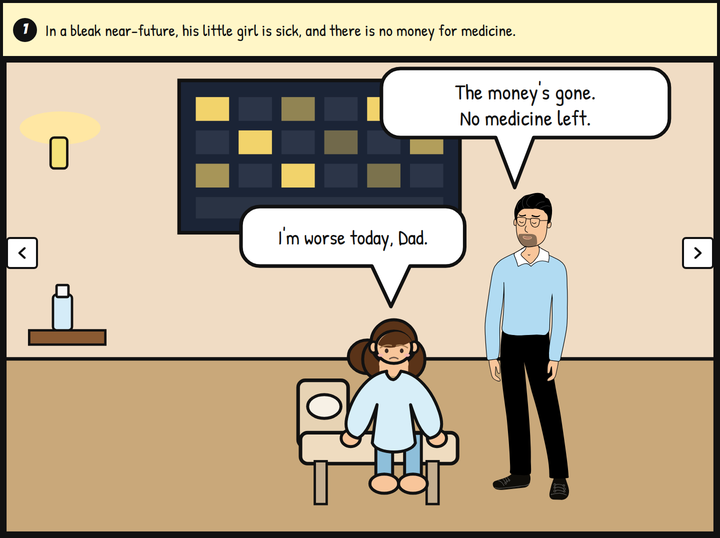
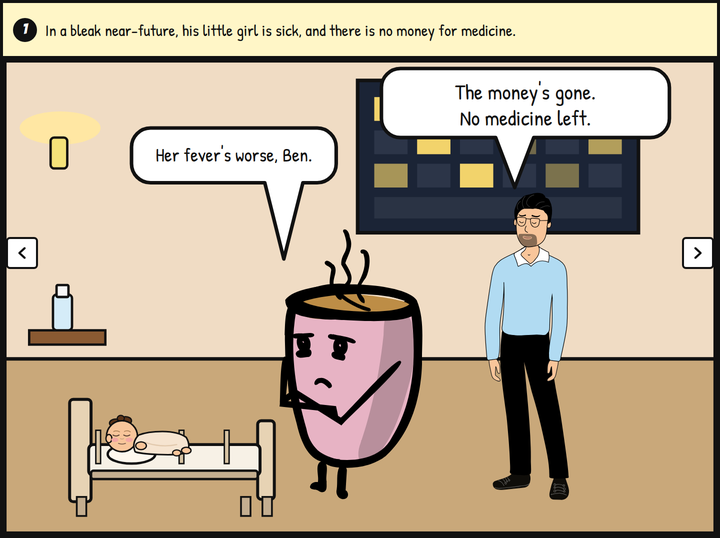
Make Cathy a feverish baby in the Running Man opening.
Scene 1 replaces the seated school-age girl with an original infant in a crib, about a third of Ethan's height, and gives the line to her mother instead.

Changed region(s): [[0.0917, 0.119, 0.9167, 0.9814]]

diff --git a/_includes/comicbook-the-running-man.html b/_includes/comicbook-the-running-man.html
@@ -13,28 +13,28 @@
         <div class="numbertext">1 / 6</div>
         <figure class="rm-panel" id="rm-panel-1" data-scene="1">
 <figcaption class="rm-cap"><span class="rm-num" aria-hidden="true">1</span><span>In a bleak near-future, his little girl is sick, and there is no money for medicine.</span></figcaption>
-<svg class="rm-art" viewBox="0 0 600 400" role="img" aria-labelledby="rm-t1" preserveAspectRatio="xMidYMid meet"><title id="rm-t1">A broke father stands with his sick daughter in a poor room above a dark city</title>
+<svg class="rm-art" viewBox="0 0 600 400" role="img" aria-labelledby="rm-t1" preserveAspectRatio="xMidYMid meet"><title id="rm-t1">A broke father and mother stand by their feverish baby in a poor room</title>
 <rect width="600" height="400" fill="#f0dcc4"/>
-<rect x="148" y="18" width="236" height="128" fill="#1b2436" stroke="#111" stroke-width="3"/>
-<rect x="162" y="32" width="28" height="20" fill="#f2d36b"/>
-<rect x="198" y="32" width="28" height="20" fill="#2c3548"/>
-<rect x="234" y="32" width="28" height="20" fill="#f2d36b" opacity=".55"/>
-<rect x="270" y="32" width="28" height="20" fill="#2c3548"/>
-<rect x="306" y="32" width="28" height="20" fill="#f2d36b"/>
-<rect x="342" y="32" width="28" height="20" fill="#2c3548"/>
-<rect x="162" y="60" width="28" height="20" fill="#2c3548"/>
-<rect x="198" y="60" width="28" height="20" fill="#f2d36b"/>
-<rect x="234" y="60" width="28" height="20" fill="#2c3548"/>
-<rect x="270" y="60" width="28" height="20" fill="#f2d36b" opacity=".4"/>
-<rect x="306" y="60" width="28" height="20" fill="#2c3548"/>
-<rect x="342" y="60" width="28" height="20" fill="#f2d36b" opacity=".7"/>
-<rect x="162" y="88" width="28" height="20" fill="#f2d36b" opacity=".65"/>
-<rect x="198" y="88" width="28" height="20" fill="#2c3548"/>
-<rect x="234" y="88" width="28" height="20" fill="#f2d36b"/>
-<rect x="270" y="88" width="28" height="20" fill="#2c3548"/>
-<rect x="306" y="88" width="28" height="20" fill="#f2d36b" opacity=".45"/>
-<rect x="342" y="88" width="28" height="20" fill="#2c3548"/>
-<rect x="162" y="116" width="208" height="18" fill="#2a3344"/>
+<rect x="298" y="18" width="236" height="128" fill="#1b2436" stroke="#111" stroke-width="3"/>
+<rect x="312" y="32" width="28" height="20" fill="#f2d36b"/>
+<rect x="348" y="32" width="28" height="20" fill="#2c3548"/>
+<rect x="384" y="32" width="28" height="20" fill="#f2d36b" opacity=".55"/>
+<rect x="420" y="32" width="28" height="20" fill="#2c3548"/>
+<rect x="456" y="32" width="28" height="20" fill="#f2d36b"/>
+<rect x="492" y="32" width="28" height="20" fill="#2c3548"/>
+<rect x="312" y="60" width="28" height="20" fill="#2c3548"/>
+<rect x="348" y="60" width="28" height="20" fill="#f2d36b"/>
+<rect x="384" y="60" width="28" height="20" fill="#2c3548"/>
+<rect x="420" y="60" width="28" height="20" fill="#f2d36b" opacity=".4"/>
+<rect x="456" y="60" width="28" height="20" fill="#2c3548"/>
+<rect x="492" y="60" width="28" height="20" fill="#f2d36b" opacity=".7"/>
+<rect x="312" y="88" width="28" height="20" fill="#f2d36b" opacity=".65"/>
+<rect x="348" y="88" width="28" height="20" fill="#2c3548"/>
+<rect x="384" y="88" width="28" height="20" fill="#f2d36b"/>
+<rect x="420" y="88" width="28" height="20" fill="#2c3548"/>
+<rect x="456" y="88" width="28" height="20" fill="#f2d36b" opacity=".45"/>
+<rect x="492" y="88" width="28" height="20" fill="#2c3548"/>
+<rect x="312" y="116" width="208" height="18" fill="#2a3344"/>
 <rect y="252" width="600" height="148" fill="#c9a87a"/>
 <line x1="0" y1="252" x2="600" y2="252" stroke="#111" stroke-width="3"/>
 <ellipse cx="48" cy="58" rx="34" ry="14" fill="#ffe7a3"/>
@@ -42,15 +42,22 @@
 <rect x="22" y="228" width="64" height="12" fill="#8a5a32" stroke="#111" stroke-width="2"/>
 <rect x="42" y="198" width="16" height="30" rx="3" fill="#d5ecf8" stroke="#111" stroke-width="2"/>
 <rect x="45" y="190" width="10" height="10" rx="1" fill="#f7f7f7" stroke="#111" stroke-width="2"/>
-<rect x="248" y="270" width="42" height="56" rx="6" fill="#e7d3b4" stroke="#111" stroke-width="3"/>
-<ellipse cx="270" cy="292" rx="14" ry="10" fill="#f7f1e6" stroke="#111" stroke-width="2.5"/>
-<rect x="250" y="314" width="132" height="26" rx="6" fill="#efdcc0" stroke="#111" stroke-width="3"/>
-<rect x="262" y="338" width="10" height="36" fill="#c4ae90" stroke="#111" stroke-width="2"/>
-<rect x="356" y="338" width="10" height="36" fill="#c4ae90" stroke="#111" stroke-width="2"/>
-<image href="{{ '/assets/comics/the-running-man/girl.svg' | relative_url }}" x="266" y="206" width="151" height="169"/>
+<rect x="56" y="286" width="18" height="86" rx="3" fill="#e7d3b4" stroke="#111" stroke-width="2.5"/>
+<rect x="214" y="304" width="14" height="66" rx="3" fill="#e7d3b4" stroke="#111" stroke-width="2.5"/>
+<rect x="72" y="324" width="144" height="26" rx="4" fill="#f7f1e6" stroke="#111" stroke-width="2.5"/>
+<rect x="78" y="312" width="4" height="28" fill="#d7c4a4" stroke="#111" stroke-width="1.2"/>
+<rect x="148" y="312" width="4" height="28" fill="#d7c4a4" stroke="#111" stroke-width="1.2"/>
+<rect x="186" y="312" width="4" height="28" fill="#d7c4a4" stroke="#111" stroke-width="1.2"/>
+<ellipse cx="108" cy="332" rx="20" ry="8" fill="#fff8ee" stroke="#111" stroke-width="2"/>
+<image href="{{ '/assets/comics/the-running-man/baby.svg' | relative_url }}" x="80" y="296" width="80" height="46"/>
+<rect x="74" y="346" width="140" height="7" rx="2" fill="#c4ae90" stroke="#111" stroke-width="2"/>
+<rect x="62" y="368" width="8" height="16" fill="#c4ae90" stroke="#111" stroke-width="1.5"/>
+<rect x="200" y="368" width="8" height="16" fill="#c4ae90" stroke="#111" stroke-width="1.5"/>
+<rect x="218" y="368" width="8" height="16" fill="#c4ae90" stroke="#111" stroke-width="1.5"/>
+<image href="{{ '/assets/comics/the-running-man/sheila.svg' | relative_url }}" x="71" y="0" width="437" height="524" transform="translate(579,0) scale(-1,1)"/>
 <image href="{{ '/assets/comics/the-running-man/ben-sad-side.svg' | relative_url }}" x="276" y="92" width="249" height="298" transform="translate(801,0) scale(-1,1)"/>
-<path d="M 216 124 H 372 A 16 16 0 0 1 388 140 V 158 A 16 16 0 0 1 372 174 H 342 L 326 208 L 310 174 H 216 A 16 16 0 0 1 200 158 V 140 A 16 16 0 0 1 216 124 Z" fill="#fff" stroke="#111" stroke-width="3" stroke-linejoin="round"/>
-<text x="294" y="156" font-family="'Patrick Hand', 'Comic Neue', 'Comic Sans MS', cursive" font-size="17" fill="#111" text-anchor="middle">I'm worse today, Dad.</text>
+<path d="M 124 58 H 264 A 16 16 0 0 1 280 74 V 88 A 16 16 0 0 1 264 104 H 252 L 236 168 L 220 104 H 124 A 16 16 0 0 1 108 88 V 74 A 16 16 0 0 1 124 58 Z" fill="#fff" stroke="#111" stroke-width="3" stroke-linejoin="round"/>
+<text x="194" y="86" font-family="'Patrick Hand', 'Comic Neue', 'Comic Sans MS', cursive" font-size="16" fill="#111" text-anchor="middle">Her fever's worse, Ben.</text>
 <path d="M 334 8 H 544 A 16 16 0 0 1 560 24 V 50 A 16 16 0 0 1 544 66 H 446 L 430 108 L 414 66 H 334 A 16 16 0 0 1 318 50 V 24 A 16 16 0 0 1 334 8 Z" fill="#fff" stroke="#111" stroke-width="3" stroke-linejoin="round"/>
 <text x="439" y="34" font-family="'Patrick Hand', 'Comic Neue', 'Comic Sans MS', cursive" font-size="18" fill="#111" text-anchor="middle"><tspan x="439" dy="0">The money's gone.</tspan><tspan x="439" dy="22">No medicine left.</tspan></text>
 <rect x="1.5" y="1.5" width="597" height="397" fill="none" stroke="#111" stroke-width="3"/></svg>
@@ -224,5 +231,5 @@
         <button type="button" class="dot" aria-label="Show scene 6"></button>
     </div>
   </div>
-  <p class="rm-credit">Fan-made, unaffiliated, and spoiler-free. Dialogue is original. Not endorsed by Stephen King or his publishers. Characters rendered with <a href="https://gramener.com/comicgen/">Gramener Comicgen</a> (MIT). Character art: Ethan by Devarani B; Dey, Priya, and Ringo by Ramya Mylavarapu (CC0). The daughter is original fan art. Fonts: Patrick Hand &amp; Bangers (SIL OFL).</p>
+  <p class="rm-credit">Fan-made, unaffiliated, and spoiler-free. Dialogue is original. Not endorsed by Stephen King or his publishers. Characters rendered with <a href="https://gramener.com/comicgen/">Gramener Comicgen</a> (MIT). Character art: Ethan by Devarani B; Bean, Dey, Priya, and Ringo by Ramya Mylavarapu (CC0). Sheila is Bean. The baby is original fan art. Fonts: Patrick Hand &amp; Bangers (SIL OFL).</p>
 </section>

diff --git a/_includes/comic-the-running-man.html b/_includes/comic-the-running-man.html
@@ -6,7 +6,7 @@
     <div class="comic-caption-top">The Running Man: the premise in 6 panels</div>
     <img src="{{ '/assets/comics/the-running-man/panel-1.png' | relative_url }}"
          width="300" height="200" style="width:100%;height:auto;object-fit:cover"
-         alt="A father and his sick daughter in a poor apartment">
+         alt="A father and mother with their feverish baby in a poor apartment">
     <button type="button" class="btn" data-open-comic="the-running-man"
             title="Comic book" aria-label="Open The Running Man comic strip">
       <i class="fa-regular fa-eye" aria-hidden="true"></i>

diff --git a/README.md b/README.md
@@ -59,9 +59,9 @@ The Firestarter strip is fan-made, non-commercial, and based on the public publi
 
 The Cujo strip is fan-made, non-commercial, and based on the public publisher premise of the novel (Viking Press, September 8, 1981): in a hot Castle Rock summer, Donna Trenton and her four-year-old son Tad are already strained while Vic is away on business. Cujo, a gentle St. Bernard, is bitten by a bat and changes. Donna and Tad drive their failing Pinto to a remote farm garage, and it breaks down there, leaving them stuck in the car as the dog appears. The strip does not follow the plot past that premise. It is not affiliated with or endorsed by Stephen King or Viking Press.
 
-The Running Man strip is fan-made, non-commercial, and based on the public premise of the 1982 Richard Bachman novel (Signet, May 1982): in a bleak near-future, a desperate, broke father whose young daughter is sick signs up for a deadly television game show, The Running Man. He must stay alive while the public is paid to report him and hunters track him down. The strip does not follow the plot past that premise. Dialogue is original. It is unofficial fan work, not affiliated with or endorsed by Stephen King or his publishers.
+The Running Man strip is fan-made, non-commercial, and based on the public premise of the 1982 Richard Bachman novel (Signet, May 1982): in a bleak near-future, a desperate, broke father whose baby daughter is sick signs up for a deadly television game show, The Running Man. He must stay alive while the public is paid to report him and hunters track him down. The strip does not follow the plot past that premise. Dialogue is original. It is unofficial fan work, not affiliated with or endorsed by Stephen King or his publishers.
 
 - **Comicgen** by Gramener ([gramener.com/comicgen](https://gramener.com/comicgen/), [github.com/gramener/comicgen](https://github.com/gramener/comicgen)); code under MIT.
-- **Character art** uses Comicgen CC0 character assets, including Sophie. The Running Man strip uses Ethan by Devarani B, and Dey, Priya, and Ringo by Ramya Mylavarapu (CC0). The daughter is original fan art in that flat style.
+- **Character art** uses Comicgen CC0 character assets, including Sophie. The Running Man strip uses Ethan by Devarani B, and Bean, Dey, Priya, and Ringo by Ramya Mylavarapu (CC0). Sheila is Bean. The baby is original fan art in that flat style.
 - **Noto emoji** (envelope) © Google Inc., Apache License 2.0.
 - **Fonts:** Patrick Hand and Bangers, SIL Open Font License 1.1.
